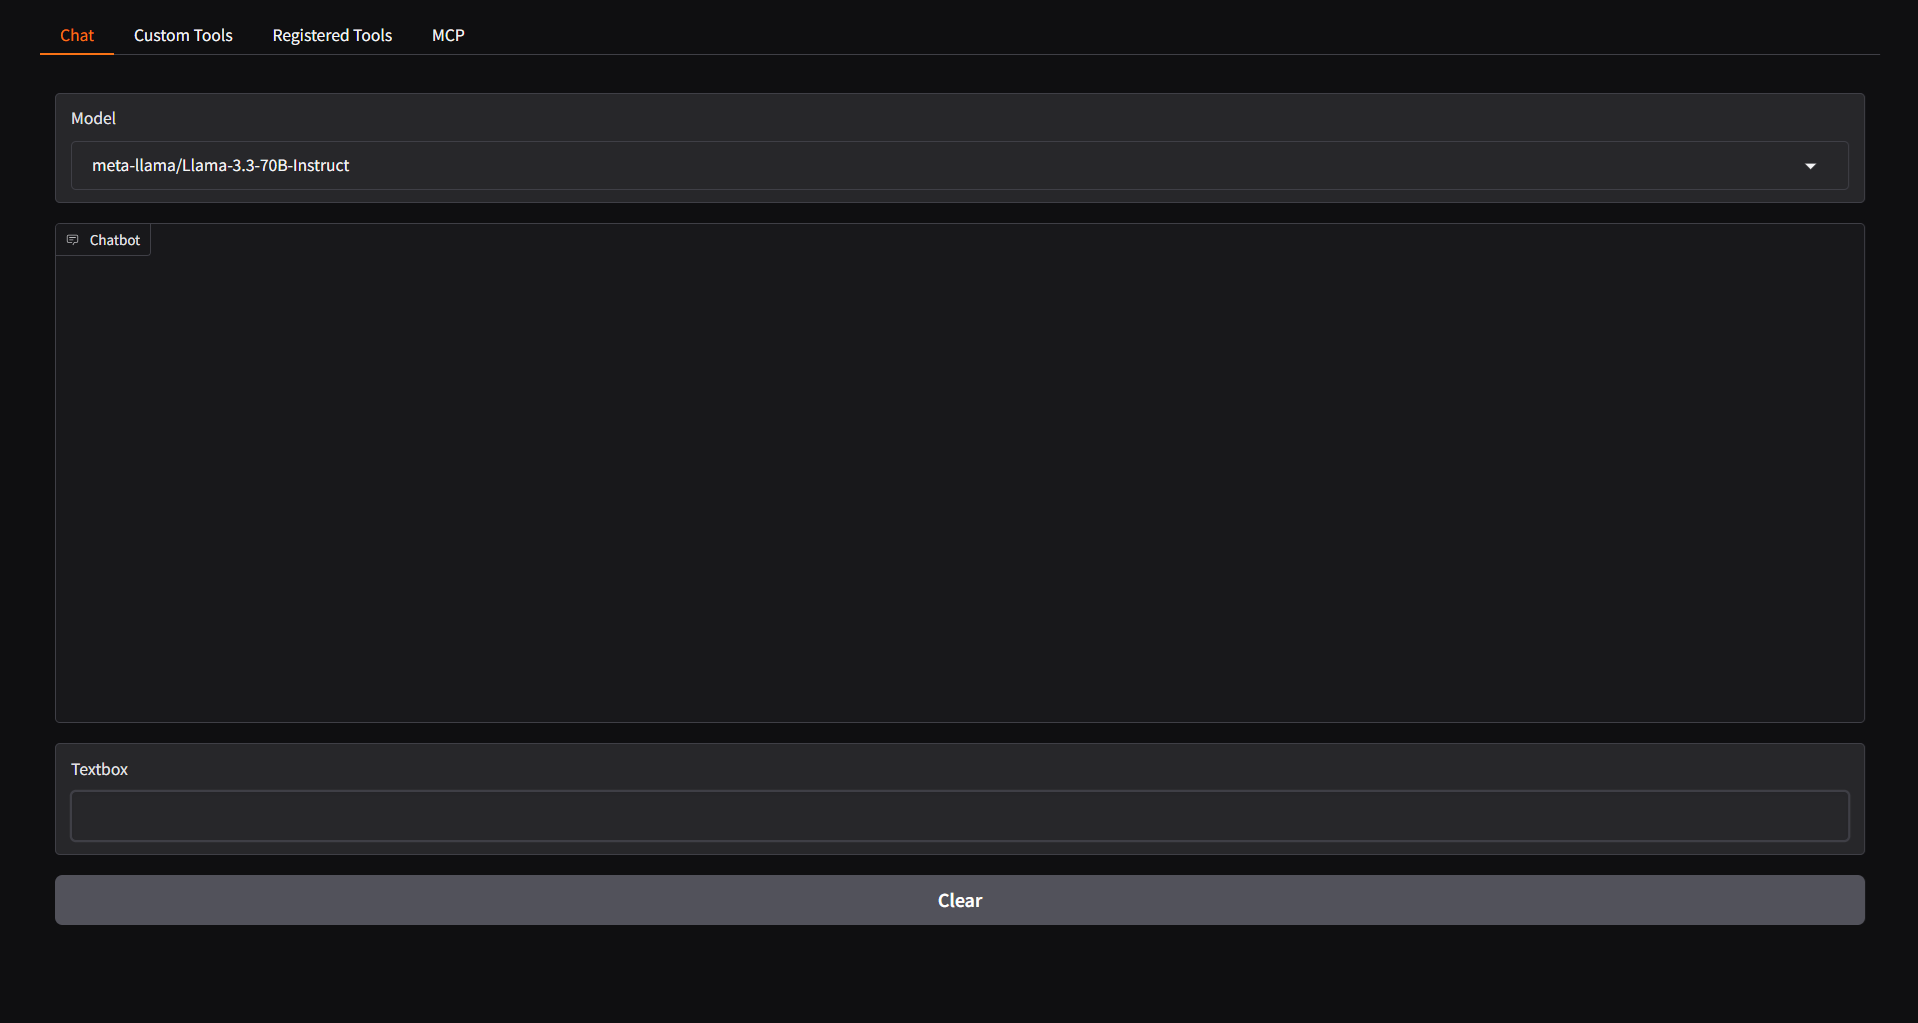
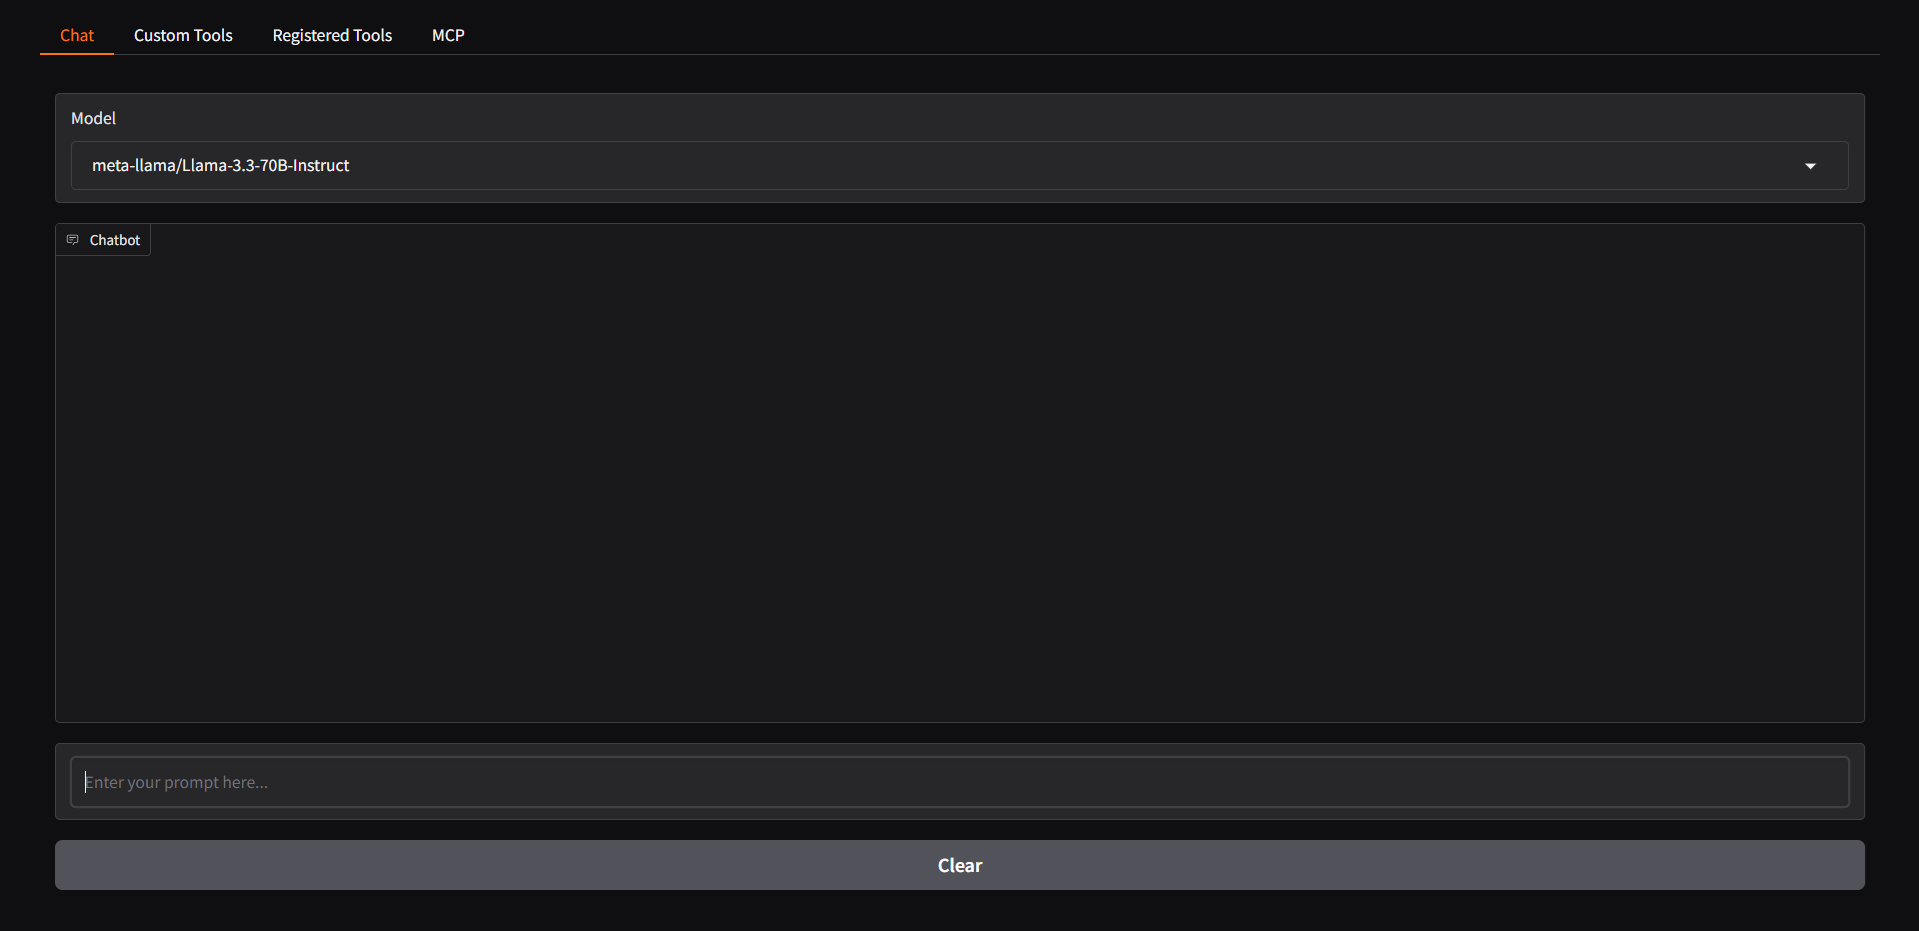
update readme

Changed region(s): [[0.0308, 0.7476, 0.9844, 0.9656], [0.0308, 0.0934, 0.9844, 0.2803], [0.0308, 0.0311, 0.2461, 0.0623]]

diff --git a/main.py b/main.py
@@ -73,7 +73,7 @@ with gr.Blocks() as demo:
                 )
                 
             chatbot = gr.Chatbot(type="tuples")
-            msg = gr.Textbox()
+            msg = gr.Textbox(label="Prompt", placeholder="Enter your prompt here...", show_label=False)
             clear = gr.Button("Clear")
 
             msg.submit(respond, [msg, chatbot], [msg, chatbot])
